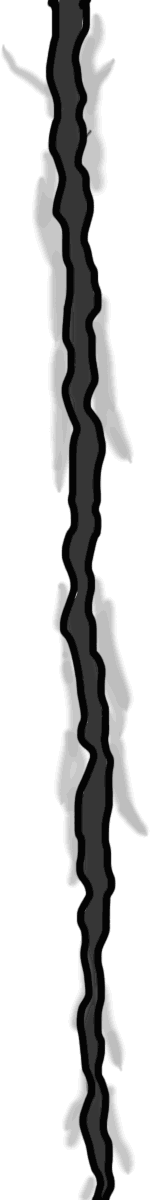
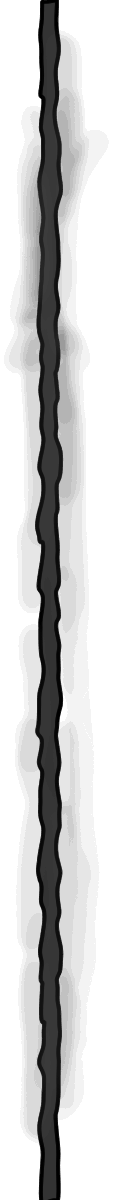
基本完成

diff --git a/js/main.js b/js/main.js
@@ -1,4 +1,5 @@
 $(function () {
+  'use strict';
   $('#knife')
     .on({
       'mouseover': function () {
@@ -12,30 +13,59 @@ $(function () {
       axis: 'y',
       scroll: false,
       drag: function (event, ui) {
-        var h = ui.position.top + 483 > $('#feng').height() ? ui.position.top + 483 : $('#feng').height();
+        var h = ui.position.top + 42 > $('#feng').height() ? ui.position.top + 42 : $('#feng').height();
         $('#feng').height(h);
-        if (h > $(window).height()) {
-          afterSlice();
+        if (h > $(window).height() - 250) {
+          autoSlice();
         }
+        $('#pop1').remove();
+        $('#arrow, #pop2').removeClass('hide');
       }
     });
+  function autoSlice() {
+    $('#arrow, #pop2').remove();
+    $('#knife').animate({top: $(window).height()}, 400);
+    $('#feng')
+      .animate({height: $(window).height()}, {duration: 400, complete: afterSlice})
+      .animate({opacity: 0}, 500);
+  }
   function afterSlice() {
     $('#knife')
       .off()
-      .draggable('destroy')
       .animate({top: $(window).height() + 50}, 1000);
-    $('#feng').animate({opacity: 0}, 500);
     $('#cover')
       .animate({
         width: $(window).width() + 970,
         marginLeft: -($(window).width() + 970 >> 1)
       }, 2000)
-      .animate({
-        opacity: 0,
-        onComplete: clear
-      }, 500);
+      .animate({opacity: 0}, {duration: 500, complete: clear});
   }
   function clear() {
     $('#knife, #feng, #cover').remove();
+    $('#share-modal').modal('show');
   }
 });
+function postToWb() {
+  var _url = encodeURIComponent(document.location);
+  var _assname = encodeURI("qqdigi");//你注册的帐号，不是昵称
+  var _appkey = encodeURI("100678265");//你从腾讯获得的appkey
+  var _pic = encodeURI('');//（例如：var _pic='图片url1|图片url2|图片url3....）
+  var _t = '';//标题和描述信息
+  var metainfo = document.getElementsByTagName("meta");
+  for(var metai = 0;metai < metainfo.length;metai++){
+    if((new RegExp('description','gi')).test(metainfo[metai].getAttribute("name"))){
+      _t = metainfo[metai].attributes["content"].value;
+    }
+  }
+  _t =  document.title+_t;//请在这里添加你自定义的分享内容
+  if(_t.length > 120){
+    _t= _t.substr(0,117)+'...';
+  }
+  _t = encodeURI(_t);
+
+  var _u = 'http://share.v.t.qq.com/index.php?c=share&a=index&url='+_url+'&appkey='+_appkey+'&pic='+_pic+'&assname='+_assname+'&title='+_t;
+  window.open( _u,'', 'width=700, height=680, top=0, left=0, toolbar=no, menubar=no, scrollbars=no, location=yes, resizable=no, status=no' );
+}
+function postToWeibo() {
+
+}

diff --git a/index.html b/index.html
@@ -5,6 +5,7 @@
 <link href="css/style.css" rel="stylesheet" />
 <script src="//ajax.aspnetcdn.com/ajax/jQuery/jquery-1.9.1.min.js"></script>
 <script src="//ajax.aspnetcdn.com/ajax/jquery.ui/1.10.2/jquery-ui.min.js"></script>
+<script src="//netdna.bootstrapcdn.com/twitter-bootstrap/2.3.1/js/bootstrap.min.js"></script>
 <script src="libs/TweenLite.min.js"></script>
 <script src="libs/jquery.gsap.min.js"></script>
 <script src="libs/plugins/CSSPlugin.min.js"></script>
@@ -31,9 +32,39 @@
     <img src="img/right.png" width="485" height="1015" />
   </div>
 </div>
-<div id="feng">
-
-</div>
+<div id="feng"></div>
 <div id="knife" class="animated flash">
-  <img src="img/knife.png" width="558" height="553" />
+  <img src="img/knife.png" width="596" height="577" />
+</div>
+<div id="pop1" class="animated fly">
+  <img src="img/pop1.png" width="221" height="169" />
+</div>
+<div id="pop2" class="animated fly hide">
+  <img src="img/pop2.png" width="214" height="169" />
+</div>
+<div id="arrow" class="animated fly hide">
+  <img src="img/arrow.png" width="249" height="395" />
+</div>
+<div class="modal fade hide" id="share-modal">
+  <div class="modal-header">
+    <button class="close" data-dismiss="modal" type="button" aria-hidden="true">&times;</button>
+    <h3>分享给好友</h3>
+  </div>
+  <div class="modal-body">
+    <p>我们改版了！</p>
+    <p>没错，虽然我们以前已经很NB，但我们都觉得，我们还能在NB的道路上走得更远！</p>
+    <p>所以我们进行了改版。相信你已经发现，改版后的频道，</p>
+    <ol>
+      <li>更威武</li>
+      <li>更霸气</li>
+      <li>更风骚</li>
+      <li>更绝代</li>
+      <li>....</li>
+    </ol>
+    <p>赶紧跟朋友们分享吧！</p>
+  </div>
+  <div class="modal-footer">
+    <a class="btn btn-info tmblog" href="javascript:postToWb();">分享到腾讯微博</a>
+    <a class="btn btn-danger" href="javascript:void((function(s,d,e,r,l,p,t,z,c){var%20f='http://v.t.sina.com.cn/share/share.php?appkey=',u=z||d.location,p=['&url=',e(u),'&title=',e(t||d.title),'&source=',e(r),'&sourceUrl=',e(l),'&content=',c||'gb2312','&pic=',e(p||'')].join('');function%20a(){if(!window.open([f,p].join(''),'mb',['toolbar=0,status=0,resizable=1,width=440,height=430,left=',(s.width-440)/2,',top=',(s.height-430)/2].join('')))u.href=[f,p].join('');};if(/Firefox/.test(navigator.userAgent))setTimeout(a,0);else%20a();})(screen,document,encodeURIComponent,'','','','腾讯手机频道改版','',''));">分享到新浪微博</a>
+  </div>
 </div>

diff --git a/css/style.css b/css/style.css
@@ -1,6 +1,9 @@
 body {
   overflow-x: hidden;
 }
+.hide {
+  display:none;
+}
 #new-page {
   width:962px;
   margin:0 auto;
@@ -10,7 +13,7 @@ body {
   height:1015px;
   position: absolute;
   left:50%;
-  top:3px;
+  top:0;
   margin-left:-485px;
   z-index: 0;
   background:rgba(0, 0, 0, 0.90);
@@ -22,29 +25,46 @@ body {
   float: right;
 }
 #feng {
-  width:151px;
-  height:0;
+  width:114px;
+  height:10px;
   position: absolute;
   left:50%;
-  top:0;
-  margin-left: -30px;
+  top:0px;
+  margin-left: -45px;
   background: url(../img/feng.png);
 }
 #knife {
   position: absolute;
   left:50%;
-  top:-450px;
+  top:-30px;
   cursor: pointer;
-  margin-left: 30px;
+  margin-left: -20px;
+}
+#pop1 {
+  position: absolute;
+  left:50%;
+  top:360px;
+  margin-left: -120px;
+}
+#pop2 {
+  position: absolute;
+  left:50%;
+  top:100px;
+  margin-left: -360px;
+}
+#arrow {
+  position: absolute;
+  left:50%;
+  top: 300px;
+  margin-left: -100px;
+  z-index: 4;
 }
 .animated {
   -webkit-animation-duration: 3s;
   -moz-animation-duration: 3s;
-  -o-animation-duration: 3s;
   animation-duration: 3s;
   -webkit-animation-fill-mode: both;
   -moz-animation-fill-mode: both;
-  -o-animation-fill-mode: both;
   animation-fill-mode: both;
 }
 @-webkit-keyframes flash {
@@ -57,11 +77,6 @@ body {
   25%, 75% {opacity: 0.2;}
 }
 
-@-o-keyframes flash {
-  0%, 50%, 100% {opacity: 1;}
-  25%, 75% {opacity: 0.2;}
-}
-
 @keyframes flash {
   0%, 50%, 100% {opacity: 1;}
   25%, 75% {opacity: 0.2;}
@@ -70,10 +85,34 @@ body {
 .flash {
   -webkit-animation-name: flash;
   -moz-animation-name: flash;
-  -o-animation-name: flash;
   animation-name: flash;
   -webkit-animation-iteration-count: infinite;
   -moz-animation-iteration-count: infinite;
-  -o-animation-iteration-count: infinite;
+  animation-iteration-count: infinite;
+}
+@-webkit-keyframes fly {
+  0% {-webkit-transform: translateY(-20px);}
+  50% {-webkit-transform: translateY(0);}
+  100% {-webkit-transform: translateY(-20px);}
+}
+
+@-moz-keyframes fly {
+  0% {-moz-transform: translateY(-20px);}
+  50% {-moz-transform: translateY(0);}
+  100% {-moz-transform: translateY(-20px);}
+}
+
+@keyframes fly {
+  0% {transform: translateY(-20px);}
+  50% {transform: translateY(0);}
+  100% {transform: translateY(-20px);}
+}
+
+.fly {
+  -webkit-animation-name: fly;
+  -moz-animation-name: fly;
+  animation-name: fly;
+  -webkit-animation-iteration-count: infinite;
+  -moz-animation-iteration-count: infinite;
   animation-iteration-count: infinite;
 }
